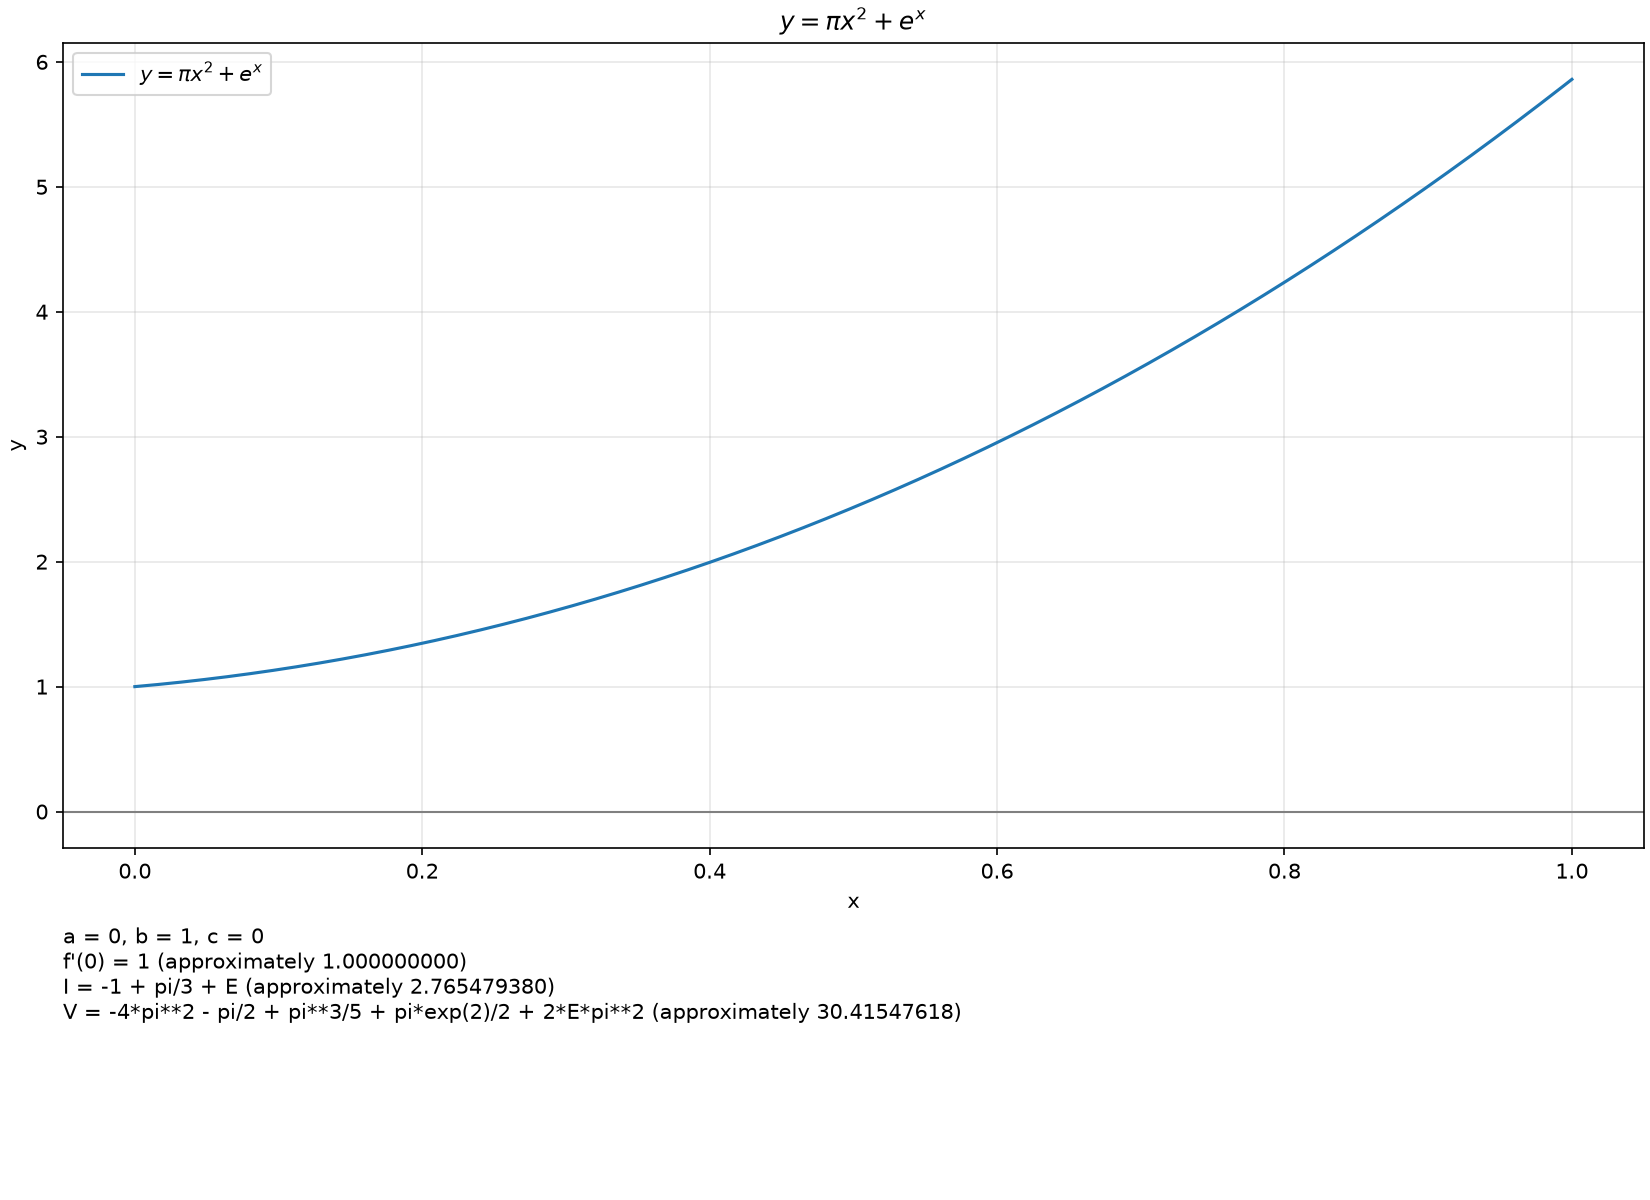
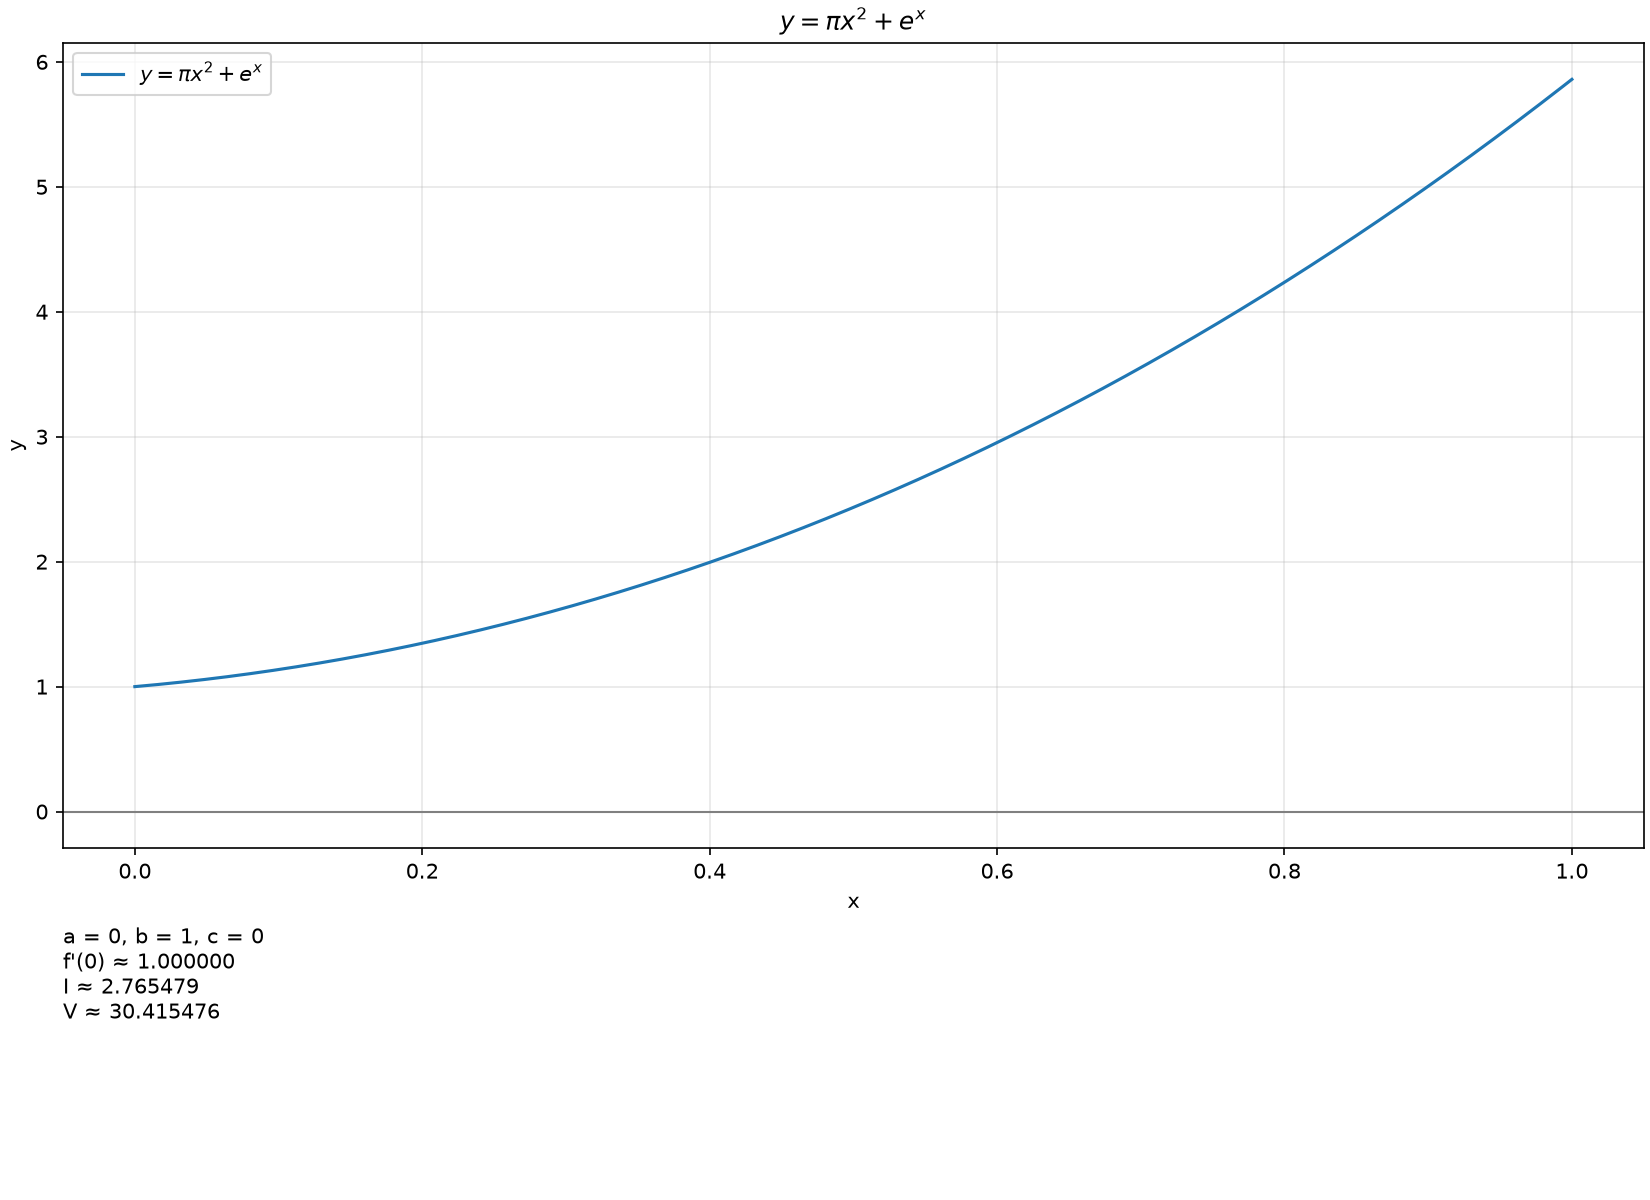
approximation fixed

Changed region(s): [[0.0618, 0.7708, 0.34, 0.8633], [0.34, 0.8325, 0.5873, 0.8633]]

diff --git a/question8.py b/question8.py
@@ -2,6 +2,22 @@ import matplotlib.pyplot as plt
 import numpy as np
 import sympy as sp
 
+def format_approx(value):
+    """Display numerical results with six digits after the decimal point."""
+    try:
+        number = complex(value.evalf(20))
+    except (TypeError, ValueError):
+        return "Cannot evaluate numerically"
+    if not (np.isfinite(number.real) and np.isfinite(number.imag)):
+        return "No finite result"
+    real = round(number.real, 6)
+    imaginary = round(number.imag, 6)
+    if imaginary == 0:
+        return f"{real:.6f}"
+    sign = "+" if imaginary > 0 else "-"
+    return f"{real:.6f} {sign} {abs(imaginary):.6f}i"
+
+
 def main():
     x = sp.Symbol("x", real = True)
     expression = input("Input f(x) - for example: x**2 - 1: ")
@@ -32,7 +48,7 @@ def main():
     right = sp.limit(difference_quotient, x, c, dir = "+")
 
     if left.is_real and left.is_finite and (left - right).equals(0):
-        derivative_result = f"f'({c}) = {left} (approximately {left.evalf(10)})"
+        derivative_result = f"f'({c}) ≈ {format_approx(left)}"
     else:
         derivative_result = f"Cannot find a finite two-sided derivative at x = {c}"
 
@@ -40,8 +56,8 @@ def main():
 
     integral = sp.integrate(f, (x, a, b))
     volume = sp.integrate(sp.pi * f**2, (x, a, b))
-    integral_result = f"I = {integral} (approximately {integral.evalf(10)})"
-    volume_result = f"V = {volume} (approximately {volume.evalf(10)})"
+    integral_result = f"I ≈ {format_approx(integral)}"
+    volume_result = f"V ≈ {format_approx(volume)}"
     print(integral_result)
     print(volume_result)
 

diff --git a/test.py b/test.py
@@ -3,6 +3,22 @@ import numpy as np
 import sympy as sp
 
 
+def format_approx(value):
+    """Display numerical results with six digits after the decimal point."""
+    try:
+        number = complex(value.evalf(20))
+    except (TypeError, ValueError):
+        return "Cannot evaluate numerically"
+    if not (np.isfinite(number.real) and np.isfinite(number.imag)):
+        return "No finite result"
+    real = round(number.real, 6)
+    imaginary = round(number.imag, 6)
+    if imaginary == 0:
+        return f"{real:.6f}"
+    sign = "+" if imaginary > 0 else "-"
+    return f"{real:.6f} {sign} {abs(imaginary):.6f}i"
+
+
 def main():
     x = sp.Symbol("x", real=True)
     expression = input("Nhập f(x), ví dụ x**2 - 1: ")
@@ -34,7 +50,7 @@ def main():
     right = sp.limit(difference_quotient, x, c, dir="+")
 
     if left.is_real and left.is_finite and (left - right).equals(0):
-        derivative_result = f"f'({c}) = {left} (approximately {left.evalf(10)})"
+        derivative_result = f"f'({c}) ≈ {format_approx(left)}"
     else:
         derivative_result = f"Cannot find a finite two-sided derivative at x = {c}"
 
@@ -43,8 +59,8 @@ def main():
 
     integral = sp.integrate(f, (x, a, b))
     volume = sp.integrate(sp.pi * f**2, (x, a, b))
-    integral_result = f"I = {integral} (approximately {integral.evalf(10)})"
-    volume_result = f"V = {volume} (approximately {volume.evalf(10)})"
+    integral_result = f"I ≈ {format_approx(integral)}"
+    volume_result = f"V ≈ {format_approx(volume)}"
     print(integral_result)
     print(volume_result)
 
